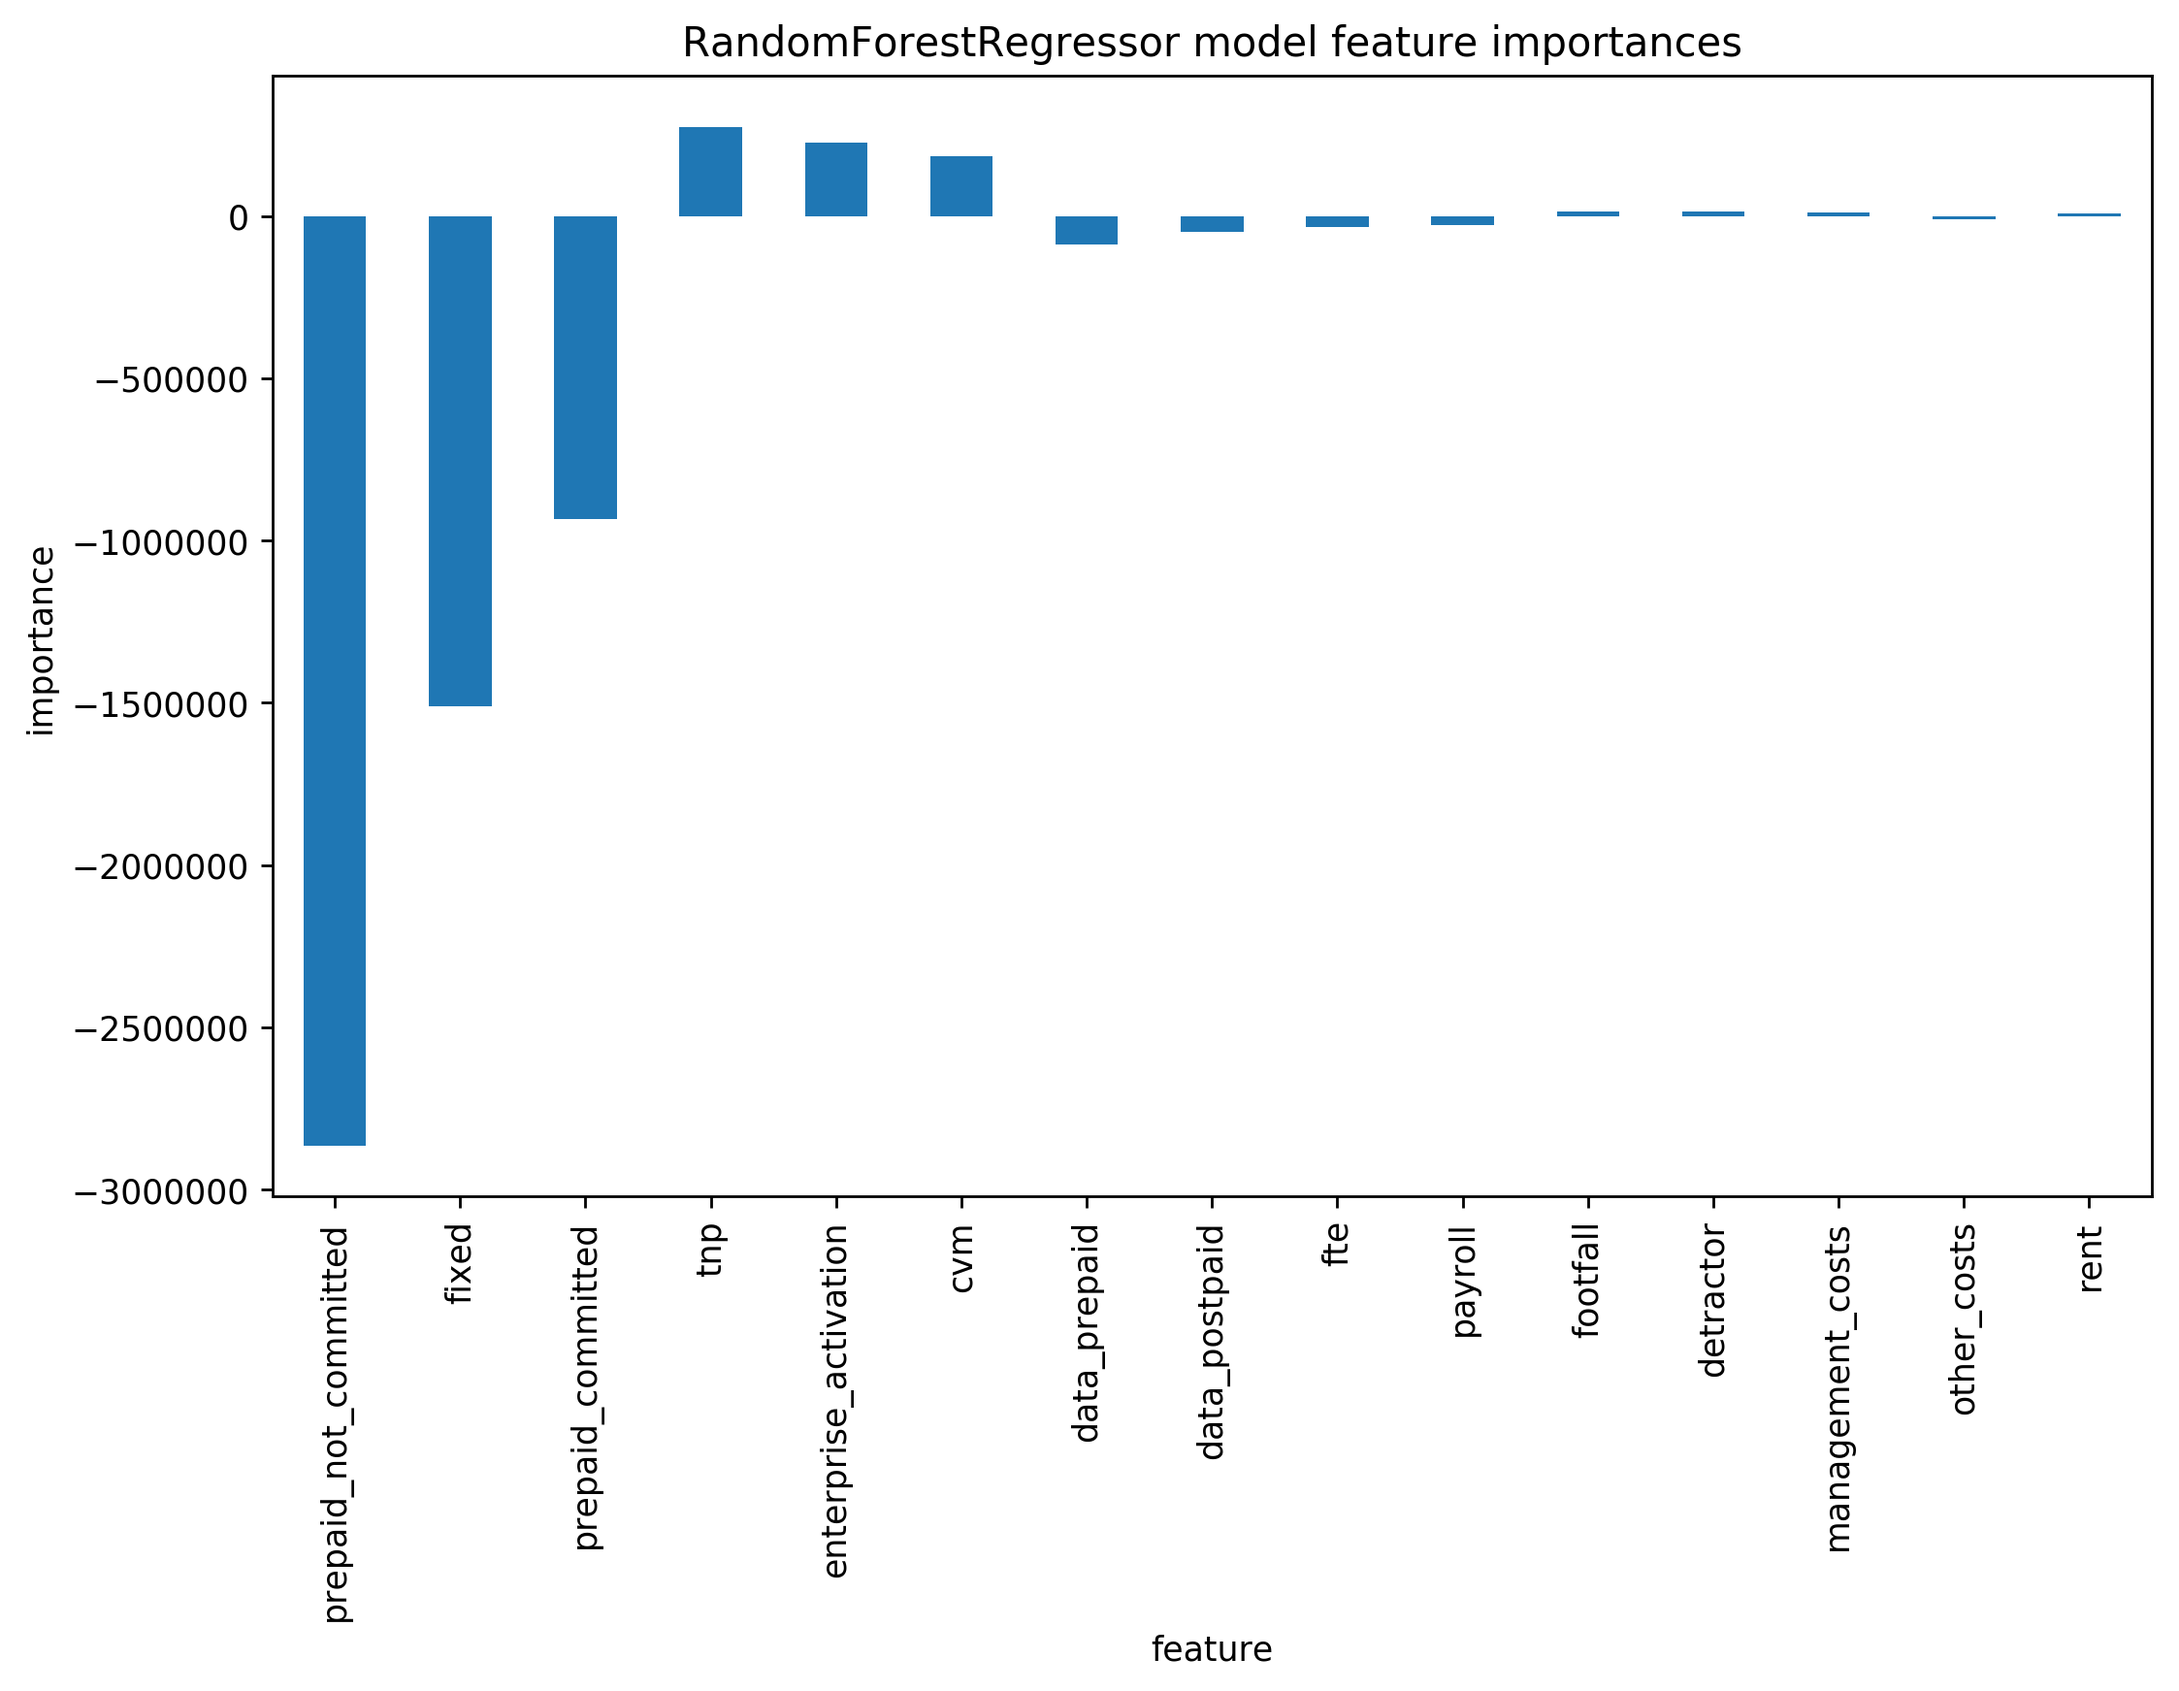
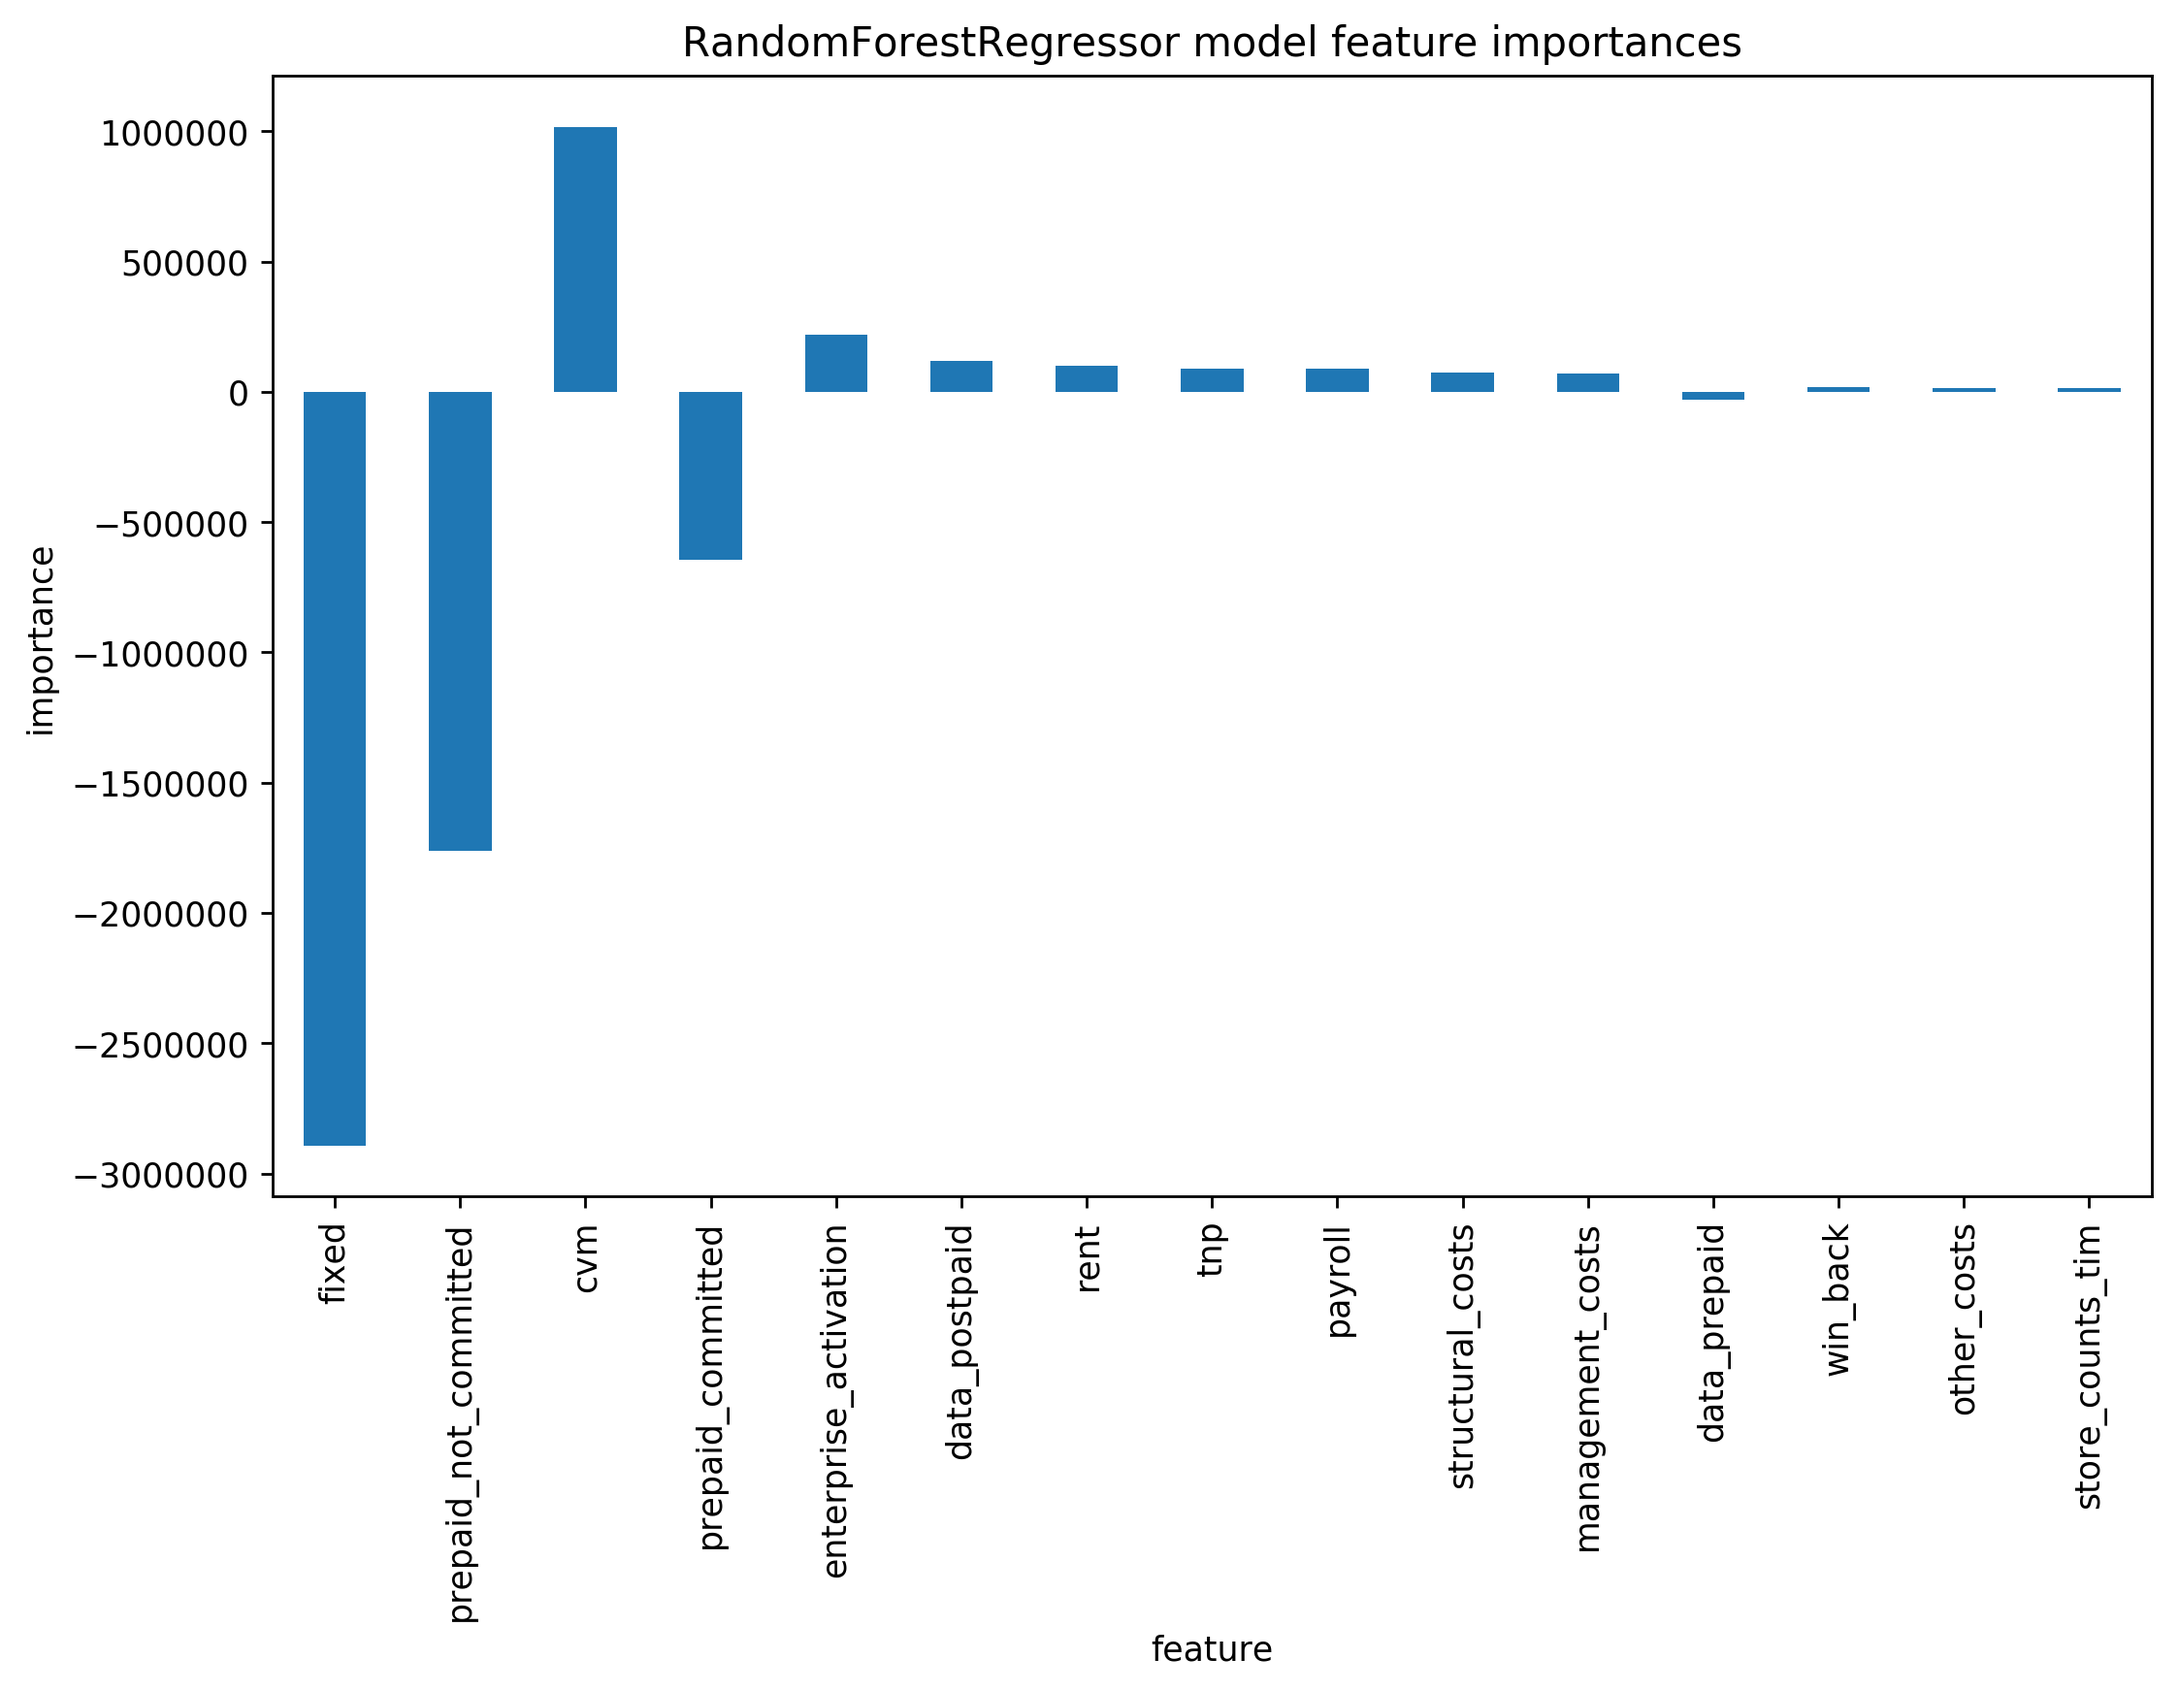
add model images

diff --git a/pages/italy/index.md b/pages/italy/index.md
@@ -1,4 +1,6 @@
-## Italy catchment areas
+# Smart Retail Italy
+
+## Catchment areas
 
 [All store catchments](italy_store_catchments_all.html)
 
@@ -7,3 +9,15 @@
 [Roma store catchments example](italy_store_catchments_roma.html)
 
 [All store Voronois](italy_store_voronois.html)
+
+## Models
+
+* Store revenue descriptive model  
+  * [Linear regression calibration plot](linearregression_calibration.png)
+  * [Linear regression coefficients plot](linearregression_coeffs.png)
+  * [Random forest calibration plot](randomforestregressor_calibration.png)
+  * [Random forest coefficients plot](randomforestregressor_coeffs.png)
+
+* Store performance profiling  
+  * [Low/medium/high clusters plot](store_clusters.png)
+  * [Store clusters features plot](store_cluster_profiles.png)
